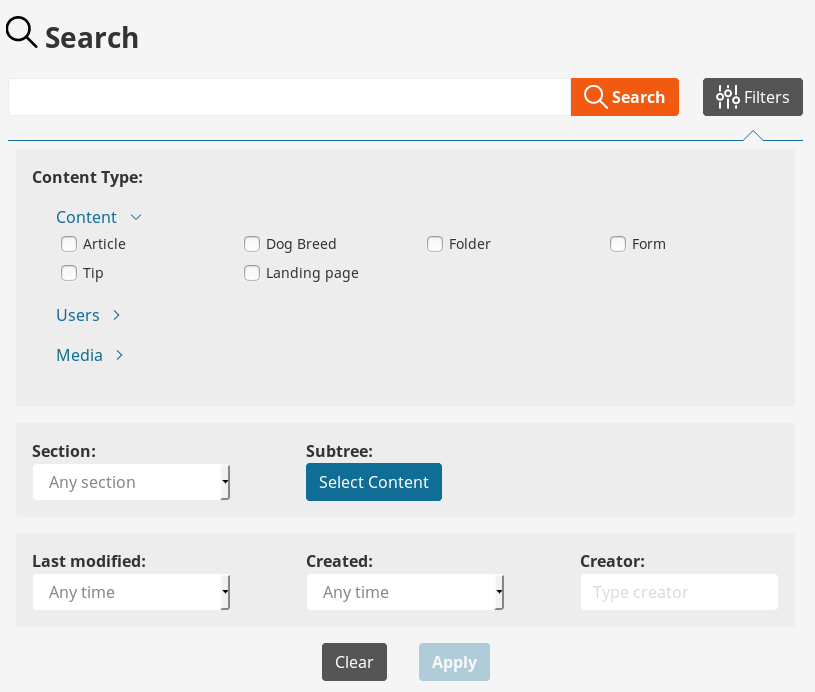
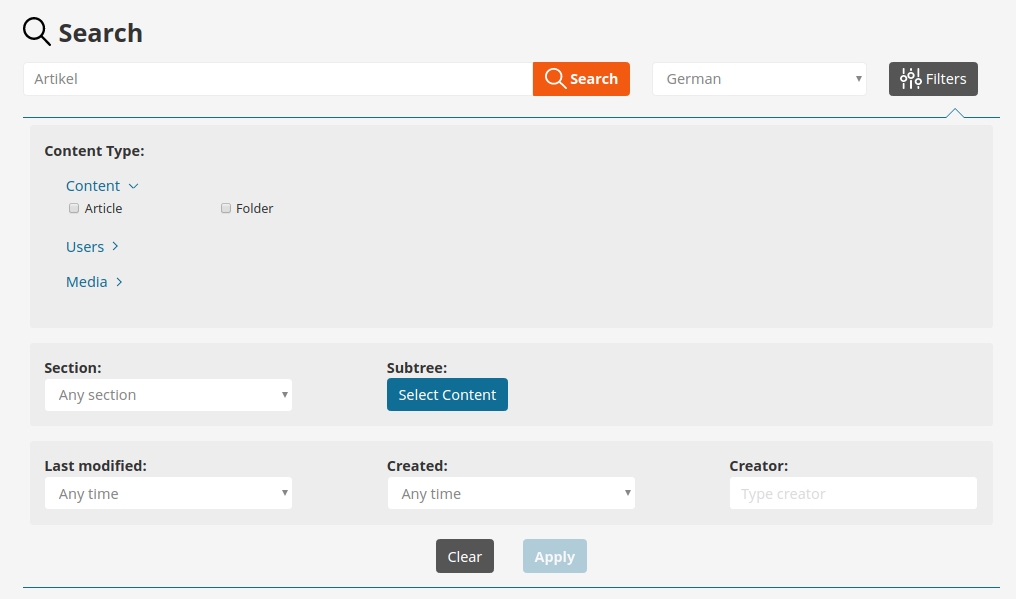
Search in languages

diff --git a/docs/search.md b/docs/search.md
@@ -6,6 +6,13 @@ You can enter a search keyword and the application checks all the searchable Fie
 
 ![Basic Search](img/basic_search.png)
 
+You can also select a language to search in.
+The results will contain Content items that are translated into this language.
+
+The result list also shows which languages the Content item is translated to:
+
+![Search results with languages](img/search_with_languages.png)
+
 ## Simplified filtered search
 
 Simplified filtered search allows you to filter by:
